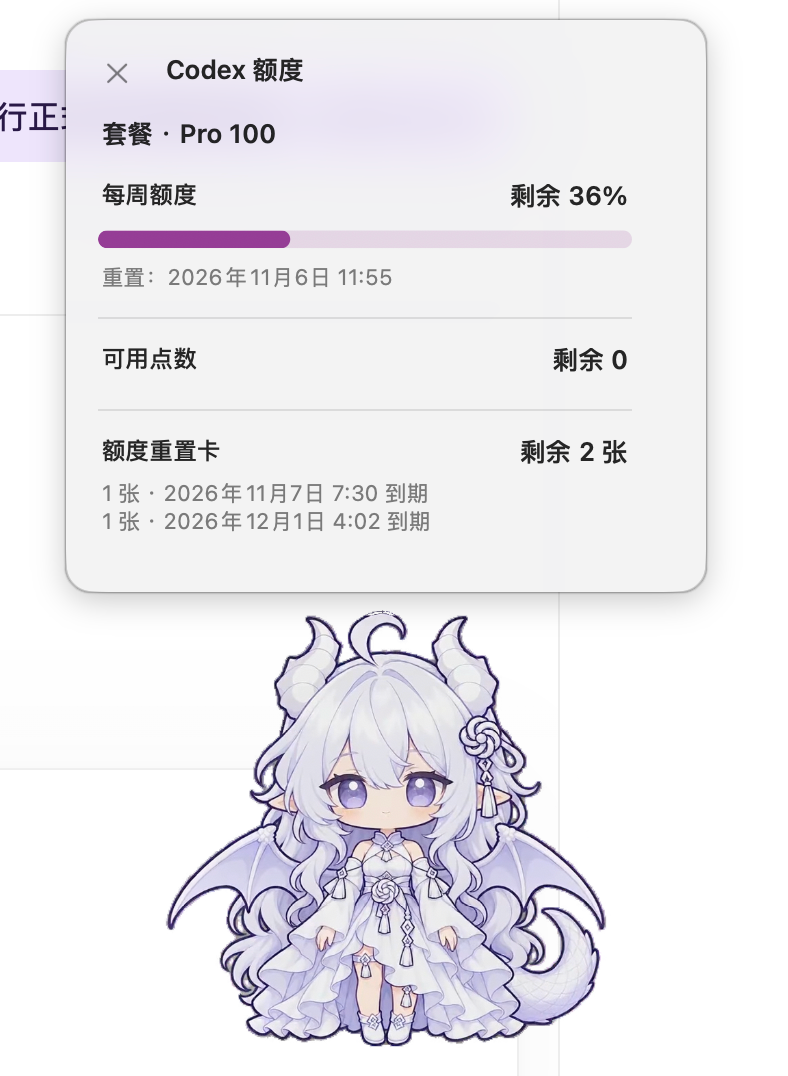
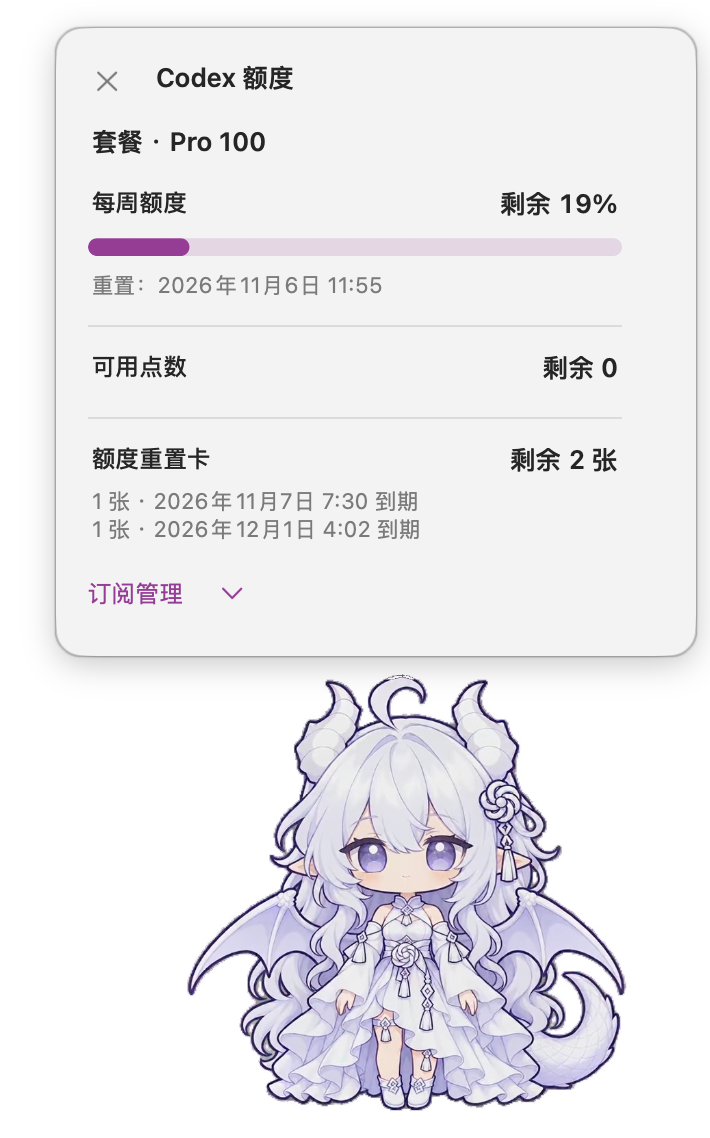
文档：整理累计特色功能并更新 README 截图

Changed region(s): [[0.0, 0.0307, 0.9915, 0.9814], [0.093, 0.0, 0.8986, 0.276], [0.6507, 0.3067, 0.8986, 0.4294]]

diff --git a/README.md b/README.md
@@ -8,79 +8,91 @@
 
 **正式版：[0.6.0](https://github.com/Joseph-Blue/bailong-desktop-pet-mac-swift/releases/tag/白龙桌宠Swiftv0.6.0)。**
 
-## 0.6.0 新增
-
-- **气泡内审批**：可以直接拒绝或允许这一次操作，先显示申请理由，再显示命令。按钮带红叉和绿对钩，左右顺序可调，按回车不会误触。
-- **思考与工具进展**：可以分别选择是否显示思考摘要和工具调用，也能修改桌宠的提示语。任务概览中的长文字会循环滚动；自动弹出的小气泡默认关闭，开启后默认显示 2 秒。
-- **代码与阅读**：代码块支持语法着色和一键复制。修复审批打开后停在底部、滚动文字中间出现空白，以及切换深浅色模式后文字颜色没有更新的问题。
-- **问卷与输入**：上一题、跳过、下一题放在同一行。新增 Control 或 Command + Enter 发送的快捷键选项，气泡宽高比也可以自行调整。
-- **设置与系统**：收紧设置项的说明间距，补齐搜索关键词。修复 macOS 27 不显示菜单图标的问题；集中提供系统权限入口，允许控制访达后，可以恢复文件所在的最小化窗口。
-- **订阅管理**：新增 ChatGPT 网页、Google Play 和 Apple 的订阅管理链接。额度每次重新查询，不使用上次的结果。
-
-相关设置位于“消息与提醒”“称呼与个性”和“外观”，可通过设置搜索定位。完整变化见 [CHANGELOG](CHANGELOG.md)。下方截图摄于 0.5.0，文字说明已更新至 0.6.0。
-
 ## 特色功能
 
-<p>
-  <a href=".github/images/task-progress.png"><img src=".github/images/task-progress.png" alt="任务进展" width="240"></a>
-  <a href=".github/images/task-overview.png"><img src=".github/images/task-overview.png" alt="任务概览" width="240"></a>
+这里介绍截至 **0.6.0** 已有的功能，各版本的更新见 [变更记录](CHANGELOG.md)。截图可点击查看原图；消息气泡图保留自 0.5.0，其余为 0.6.0。
+
+### 在桌面看进展，也能回看消息
+
+Codex 工作时，桌宠会显示回复和需要你处理的提醒。单击桌宠，可以查看正在执行和最近结束的任务，以及各自的状态和用时；点击任务就能回到对应的 Codex 会话。
+
+- **思考和工具调用分开显示**：查看公开的思考摘要，或正在读取文件、搜索、运行命令等具体操作；两类信息可以分别开关。
+- **提醒频率由你决定**：进展默认显示在任务概览里，不占消息记录。想随时看到变化，可以开启自动小气泡，默认显示 2 秒，时长可调。
+- **消息可以翻页**：气泡默认保留本次运行的 20 张消息卡片，可调整数量；正在翻阅旧消息或填写问卷时，不会被新卡片打断。
+
+<p align="center">
+  <a href=".github/images/task-progress.png"><img src=".github/images/task-progress.png" alt="消息气泡：查看回复、翻页和快捷回复（0.5.0）" width="300"></a>
+  <a href=".github/images/task-overview.png"><img src=".github/images/task-overview.png" alt="任务概览：当前操作、任务状态和用时（0.6.0）" width="300"></a>
 </p>
-<p>
-  <a href=".github/images/codex-quota.png"><img src=".github/images/codex-quota.png" alt="额度查询" width="240"></a>
-  <a href=".github/images/quick-chat.png"><img src=".github/images/quick-chat.png" alt="临时对话" width="240"></a>
+
+### 直接回复、回答问题和处理审批
+
+不用每次切回 Codex：在气泡里点“快捷回复”，就能继续原会话；任务还在执行时，也可以补充要求。回复沿用原会话的模型和思考等级。
+
+- **处理审批**：Codex 发来审批时，气泡先展示申请理由，再展示命令等详情。可以直接拒绝或允许这一次；红叉、绿对钩配合文字区分操作，左右顺序可调，按回车不会误触。桌宠内发起的任务使用原生审批窗口。
+- **回答问卷**：选择选项或输入文字，多道题可以上一题、下一题、跳过，翻页保留草稿，最后统一提交。敏感提问通过安全输入窗口或回到 Codex 处理。
+- **开启新对话**：打开桌宠聊天窗，选择工作文件夹、模型和思考等级后发送；也可以继续已有对话、查看进展或停止任务。
+- **选择发送快捷键**：支持 Command + Enter、Enter，以及 Control 或 Command + Enter 发送，输入框下方会显示当前用法。
+
+<p align="center">
+  <a href=".github/images/approval.png"><img src=".github/images/approval.png" alt="气泡内审批：理由在前，命令支持复制，底部选择拒绝或允许这一次" width="360"></a>
+  <a href=".github/images/quick-chat.png"><img src=".github/images/quick-chat.png" alt="桌宠聊天窗：选择文件夹、模型和思考等级后发送" width="300"></a>
 </p>
 
-### 更轻的动画播放，更快进入画面
+### 找回聊过的内容
 
-- **安装包更小**：0.5.0 的 Apple Silicon ZIP 相比 0.2.1 从 **168.91 MiB** 缩小到 **112.28 MiB**，减少 33.5%。动画改用透明 HEVC，移除随包 FFmpeg 解码器和 WebM 运行素材。
-- **降低动画驻留开销**：默认流式解码，使用 24 帧缓冲，切换动作后释放旧缓冲；替代旧版多动作整段解码与缓存。
-- **优化启动与切换**：首帧就绪即开始播放，后续帧在后台按需读取；取消基础动作预热。
-- **原画与性能可调**：默认 720×720 原画，另有 512、384、256 三档；可调帧率、缓冲和播放速度。
-- **独立性能窗口**：查看 FPS、CPU、GPU、运行内存 (RAM) 和动画缓冲，关闭窗口即停止统计。
+历史窗口集中保存桌宠中的对话和同步到本机的 Codex 会话。可以搜索正文、跳到匹配位置，也可以直接在右侧接着回复。
 
-技术栈继续使用 Swift + AppKit；动画链路从 WebM／FFmpeg 切换为 **HEVC with Alpha + AVFoundation + Core Image**。拖动、旋转与自主位移跟随屏幕刷新，素材帧率独立控制。
+会话标题支持右键重命名、重新同步 Codex 标题或删除记录。删除的是桌宠保存的那份记录，不会删除 Codex 原会话；关闭历史记录后，已有内容保留，关闭期间不再记录。
 
-### 在气泡中接着处理 Codex 任务
+<p align="center">
+  <a href=".github/images/history.png"><img src=".github/images/history.png" alt="历史窗口：会话侧栏、正文表格、搜索与原会话回复" width="800"></a>
+</p>
 
-- **快捷回复与插话**：从消息气泡打开临时输入窗，或在历史会话中回复；已结束对话继续聊，执行中对话可插话。原会话沿用 Codex 的模型与思考等级。
-- **问卷直接回答**：气泡内选择选项、补充文字、逐题切换和提交，草稿随卡片保留。
-- **审批入口**：外部 Codex 审批可在气泡内拒绝或允许这一次，保留转到 Codex；内置任务使用原生审批窗口。敏感提问使用原生安全输入或转到 Codex。
-- **桌宠内置对话**：选择模型与思考等级，发起任务、处理审批、查看进展和停止任务。
-- **实时进展**：标题流水、强调色盲文转圈与秒表显示执行状态；任务结束后冻结用时。
+### 代码、表格和文件都能看
 
-### 多条消息能回看，任务一眼能找到
+回复支持标题、列表、引用、表格和链接。代码放在圆角框中，支持基础语法着色和整块复制；长内容可以滚动阅读。
 
-气泡支持左右翻页、页码、快捷回复、跳转 Codex 和查看记录详情。独立消息分别保留，流式内容更新原卡片。
+首次点击本机文件链接时，系统会请求控制访达的权限；允许后，桌宠会在访达中选中文件，并恢复对应的最小化窗口。点击应用包链接只定位文件，不运行应用。Codex 生成图片后，桌宠会显示可打开的图片文件入口。
 
-单击桌宠播放随机动画，并显示正在执行及近期结束的任务。每个会话展示最新轮次，提供状态图标、用时和跳转入口；任务概览始终复用一张卡片。
+### 名字、台词和外观自己定
 
-历史窗口支持正文搜索、匹配高亮、本地重命名、同步 Codex 标题和删除桌宠副本。关闭历史记录后，已有记录保留，新的内容不再写入。
+你和桌宠的名字、问候语、互动台词、任务状态提示都可以修改。台词支持 `{用户名}`、`{桌宠名}`、`{特定称呼}`，右键输入框即可插入；特定称呼留空时沿用你的名字。
 
-### 文件、图片和表格直接呈现
+- **调整大小和形状**：分别设置桌宠大小、文字大小和气泡大小，也可以指定气泡宽高比。
+- **选择颜色和材质**：外观可跟随系统或选择浅色、深色，强调色可以自定义；macOS 26 起支持液态玻璃，也能切回普通材质、调整背景不透明度并预览。
+- **快速找到设置**：设置搜索覆盖具体选项、动作和台词，点击结果直接定位。历史与设置使用原生分栏窗口，绿灯按钮填满屏幕可用区域，再点一次恢复。
 
-- **文件链接**：点击本机文件链接，在访达定位对应文件；网页链接交给浏览器打开。
-- **生成图片入口**：imagegen 生成的图片显示独立链接，多张图片各自保留，并汇集到结果气泡。
-- **Markdown 排版**：气泡与历史支持标题、列表、引用、代码、链接和表格。
+<details>
+<summary>查看称呼与台词设置截图</summary>
+<p align="center">
+  <a href=".github/images/personality.png"><img src=".github/images/personality.png" alt="称呼与个性设置：名字、变量、问候语以及思考和工具调用台词" width="800"></a>
+</p>
+</details>
 
-### 液态玻璃与原生 macOS 界面
+### 想热闹一点，或安静陪着
 
-- **液态玻璃支持**：macOS 26 起，消息气泡与临时输入窗使用系统液态玻璃，支持材质切换、背景不透明度调整与独立预览。
-- **原生界面优化**：设置与历史采用 AppKit 原生分栏、侧栏和工具栏；搜索可定位具体选项、动作或台词，输入框保留原生焦点环与快捷键。
-- **统一外观与排版**：支持跟随系统或自定义强调色、字号、气泡比例与动态效果；按钮尺寸和对齐随缩放同步，已有卡片即时应用新外观。
+桌宠支持拖动、落地动画和吸边收起，也会按设置切换动作、在桌面活动。可以调整活跃程度、活动范围和播放速度，单独设置动作出现的频率，以及任务开始和结束时是否播放动画。
 
-称呼和台词支持 `{用户名}`、`{桌宠名}`、`{特定称呼}`。右键台词或特定称呼输入框可插入变量；名字和台词清空后恢复可编辑的默认内容，特定称呼留空沿用你的名字。
+需要专心时，开启“安静陪伴”或设定专注时段：减少自主活动，停止自动移动、互动台词、进展小气泡和音效；最终回复与需要处理的提醒仍会保留。
 
-设置侧栏提供关闭按钮；设置与额度结果窗口打开时，桌宠继续自主活动。设置与历史窗口的绿色按钮用于填满当前屏幕可用区域，再次点击恢复。
+### 查看额度，打开订阅管理
 
-### 额度、更新与本机管理
+双击桌宠查询 Codex 额度，按账号返回的信息显示套餐、剩余额度、下次重置时间、点数和重置卡。**每次都重新查询，不使用上次结果。**
 
-额度每次重新查询，显示当前用量、下次重置时间、点数和重置卡。结果气泡默认显示 **5 秒**。
+底部提供 ChatGPT 网页、Google Play 和 Apple 的订阅管理入口，免费用户也能看到。点击后打开对应平台；桌宠不显示订阅续费日期。
 
-在“设置 → 通用 → 权限与系统设置”集中管理系统权限入口。恢复最小化访达窗口需首次允许控制访达；文件与文件夹权限由系统在实际访问时请求，登录项按需启用。
+<p align="center">
+  <a href=".github/images/codex-quota.png"><img src=".github/images/codex-quota.png" alt="额度查询：套餐、剩余额度、重置时间、点数、重置卡和订阅管理入口" width="320"></a>
+</p>
 
-更新页与菜单支持检查 GitHub 正式版本，**启动自动检查默认关闭**。发现新版后可打开发布页下载。登录启动和随 Codex 启动会在新版首次运行时更新已启用的路径。
+### 动画播放和日常维护
 
-高级设置提供本应用所占本机存储统计、数据与缓存清理；错误恢复页支持重试、拷贝报告和跳转仓库反馈。
+- **原画与性能可调**：默认 720×720，另有 512、384、256 三档；可以调整帧率和缓冲。动画默认边读取边播放，保留 24 帧缓冲，切换动作后释放旧缓冲。
+- **安装包约 112 MiB**：0.6.0 的 Apple Silicon ZIP 为 112.38 MiB，早期 0.2.1 为 168.91 MiB。动画使用透明 HEVC，由系统 AVFoundation 播放，不再随包附带 FFmpeg。
+- **按需查看性能**：独立窗口显示 FPS、CPU、GPU、运行内存 (RAM) 和动画缓冲，关闭后停止统计。
+- **按需启动和检查更新**：可设为登录启动或随 Codex 启动；更新页可以检查正式版本并打开下载页，启动自动检查默认关闭。
+- **集中管理本机数据和权限**：设置中提供访达授权、文件权限、登录项入口，以及本应用的数据和缓存清理。历史格式升级前会备份原文件。
 
 ## 下载与使用
 
